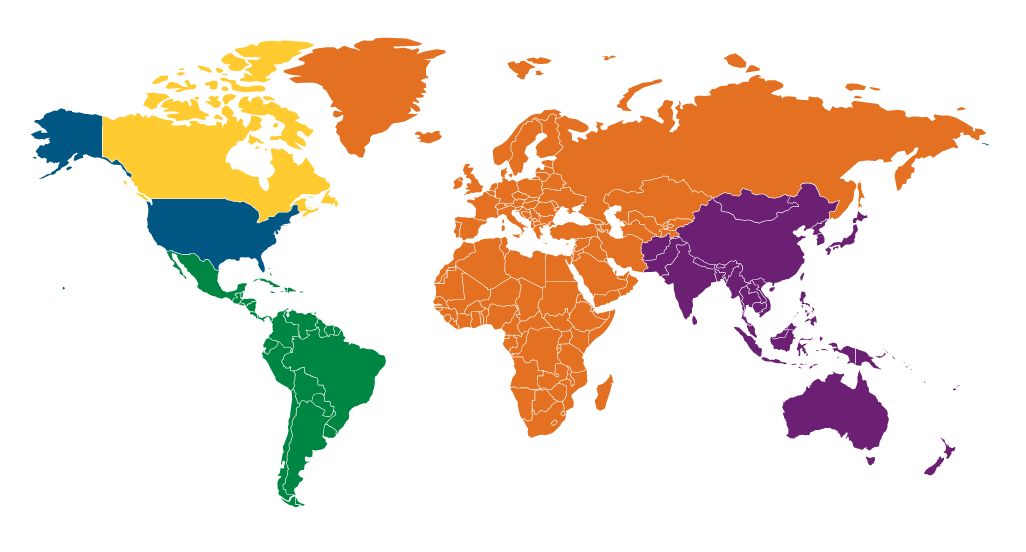
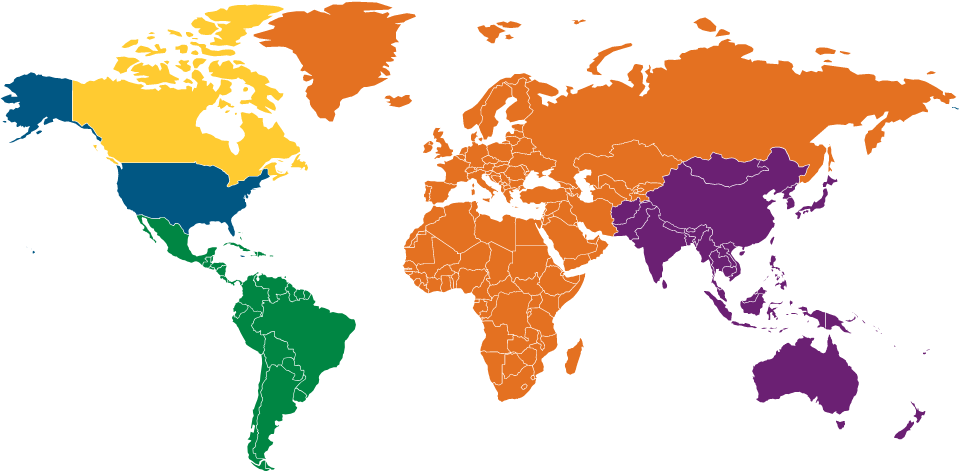
edit responsive errors

Changed region(s): [[0.4234, 0.0297, 1.0, 0.8898], [0.0, 0.0, 0.4536, 1.0], [0.9374, 0.8602, 0.9677, 0.9195]]

diff --git a/about.html b/about.html
@@ -72,7 +72,7 @@
                     To understand what IEEE HSB is, a look  <br> at the crest of the main organization <br> pyramid should
                     be taken.
                 </p>
-                <img src="/src/images/world.png" alt="ieee-world-map" class="img-responsive mx-auto d-block">
+                <img src="/src/images/world.png" alt="ieee-world-map" class="about-map-img">
             </div>
             <!--Info about what is IEEE-->
             <div class="mission">
@@ -83,7 +83,7 @@
                     literature in electrical engineering, computer science and electronics and is a leading developer
                     of international standards that underpin many of today's telecommunications, information technology
                     and power generation products and services. Obviously the organization couldn't cover the whole world
-                    without dividing it through regions, the organization made 0 regions, region 8 covers Europe, Middle
+                    without dividing it through regions, the organization made 10 regions, region 8 covers Europe, Middle
                     East, and Africa.
                 </p>
             </div>

diff --git a/src/sass/pages/_about-page.scss b/src/sass/pages/_about-page.scss
@@ -19,8 +19,10 @@ nav ul a:hover{padding:4px;
         text-align: center;
         font-family: "Helvetica LT Std Light";
         padding-top: 5%;
-        border: 0%;
-        margin: 0%;
+    }
+    &-map-img {
+        height: 100%;
+        width: 90%;
     }
 
 }

diff --git a/src/sass/pages/main.scss b/src/sass/pages/main.scss
@@ -2,4 +2,4 @@
 @import "../../../src/sass/components/nav";
 @import "../../../src/sass/components/footer";
 @import "../../../src/sass/components/menu";
-@import "about";
+@import "about-page";
